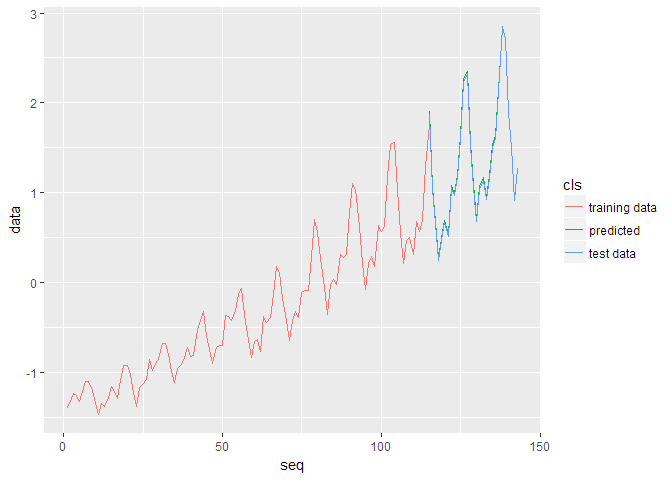
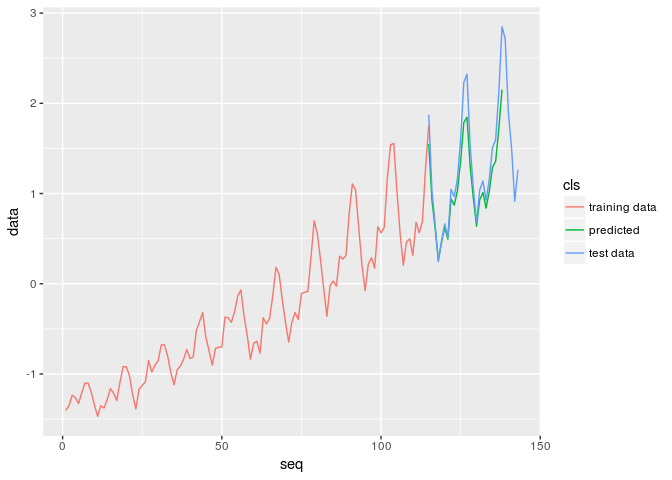
model optimize

diff --git a/ch10_rnn/Concept03_rnn_real_world.md b/ch10_rnn/Concept03_rnn_real_world.md
@@ -26,7 +26,7 @@ SeriesPredictor <- setRefClass("SeriesPredictor",
         
         # Cost optimizer
         .self$cost <- tf$reduce_mean(tf$square(model() - .self$y))
-        .self$train_op <- tf$train$AdamOptimizer()$minimize(.self$cost)
+        .self$train_op <- tf$train$AdamOptimizer(learning_rate=0.01)$minimize(.self$cost)
 
         # Auxiliary ops
         .self$saver = tf$train$Saver()
@@ -62,7 +62,7 @@ SeriesPredictor <- setRefClass("SeriesPredictor",
             train_err <- NULL_train_err[[2]]
             if(step %% 100 == 0){
               test_err <- sess$run(.self$cost, feed_dict=dict(x= test_x, y= test_y))
-              print(sprintf('step: %d\t\ttrain err: %f\t\ttest err: %f',step, train_err, test_err))
+              cat(sprintf('step: %d\t\ttrain err: %f\t\ttest err: %f\n',step, train_err, test_err))
               if(test_err < min_test_err){
                 min_test_err <- test_err
                 patience <- max_patience
@@ -134,13 +134,14 @@ test_y <- matrix(test_y, ncol=5 , byrow=T)
 predictor$train(train_x, train_y, test_x, test_y)
 ```
 
-    ## [1] "step: 0\t\ttrain err: 1.428332\t\ttest err: 1.378821"
-    ## [1] "step: 100\t\ttrain err: 0.074086\t\ttest err: 0.300300"
-    ## [1] "step: 200\t\ttrain err: 0.047249\t\ttest err: 0.266840"
-    ## [1] "step: 300\t\ttrain err: 0.044048\t\ttest err: 0.238786"
-    ## [1] "step: 400\t\ttrain err: 0.042877\t\ttest err: 0.240852"
-    ## [1] "step: 500\t\ttrain err: 0.041986\t\ttest err: 0.256876"
-    ## [1] "step: 600\t\ttrain err: 0.041209\t\ttest err: 0.280992"
+    ## step: 0      train err: 0.820042     test err: 1.690292
+    ## step: 100        train err: 0.041629     test err: 0.253392
+    ## step: 200        train err: 0.040549     test err: 0.245927
+    ## step: 300        train err: 0.039487     test err: 0.248768
+    ## step: 400        train err: 0.038130     test err: 0.211382
+    ## step: 500        train err: 0.036092     test err: 0.278987
+    ## step: 600        train err: 0.033883     test err: 0.289871
+    ## step: 700        train err: 0.032755     test err: 0.219035
     ## [1] "Model saved to ./model.ckpt"
 
 ``` r
